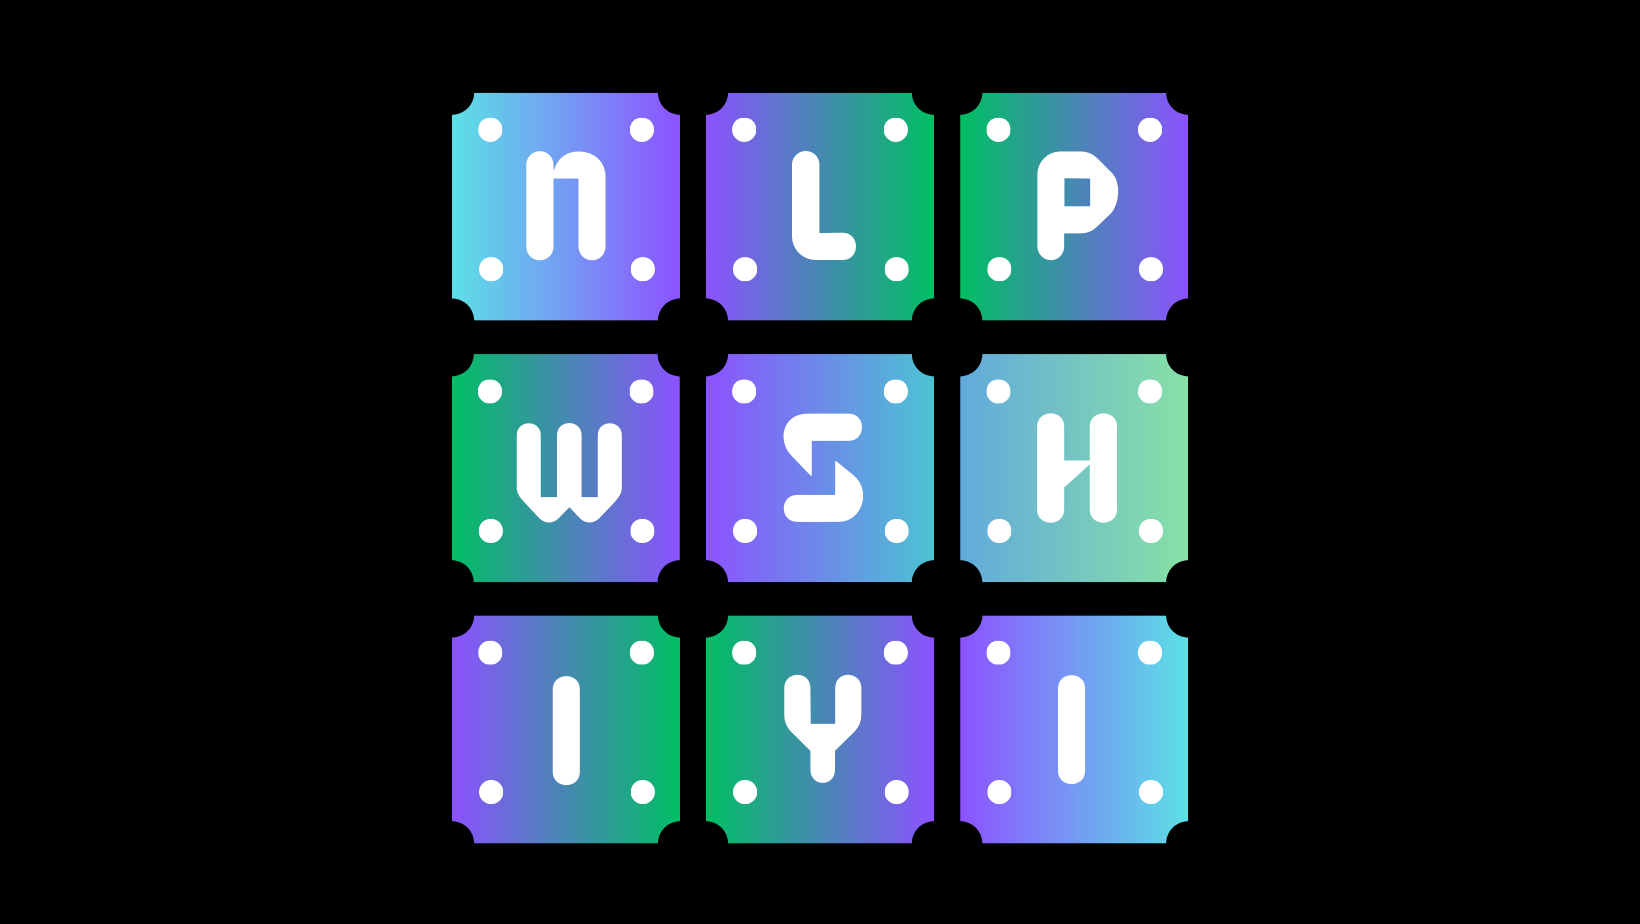
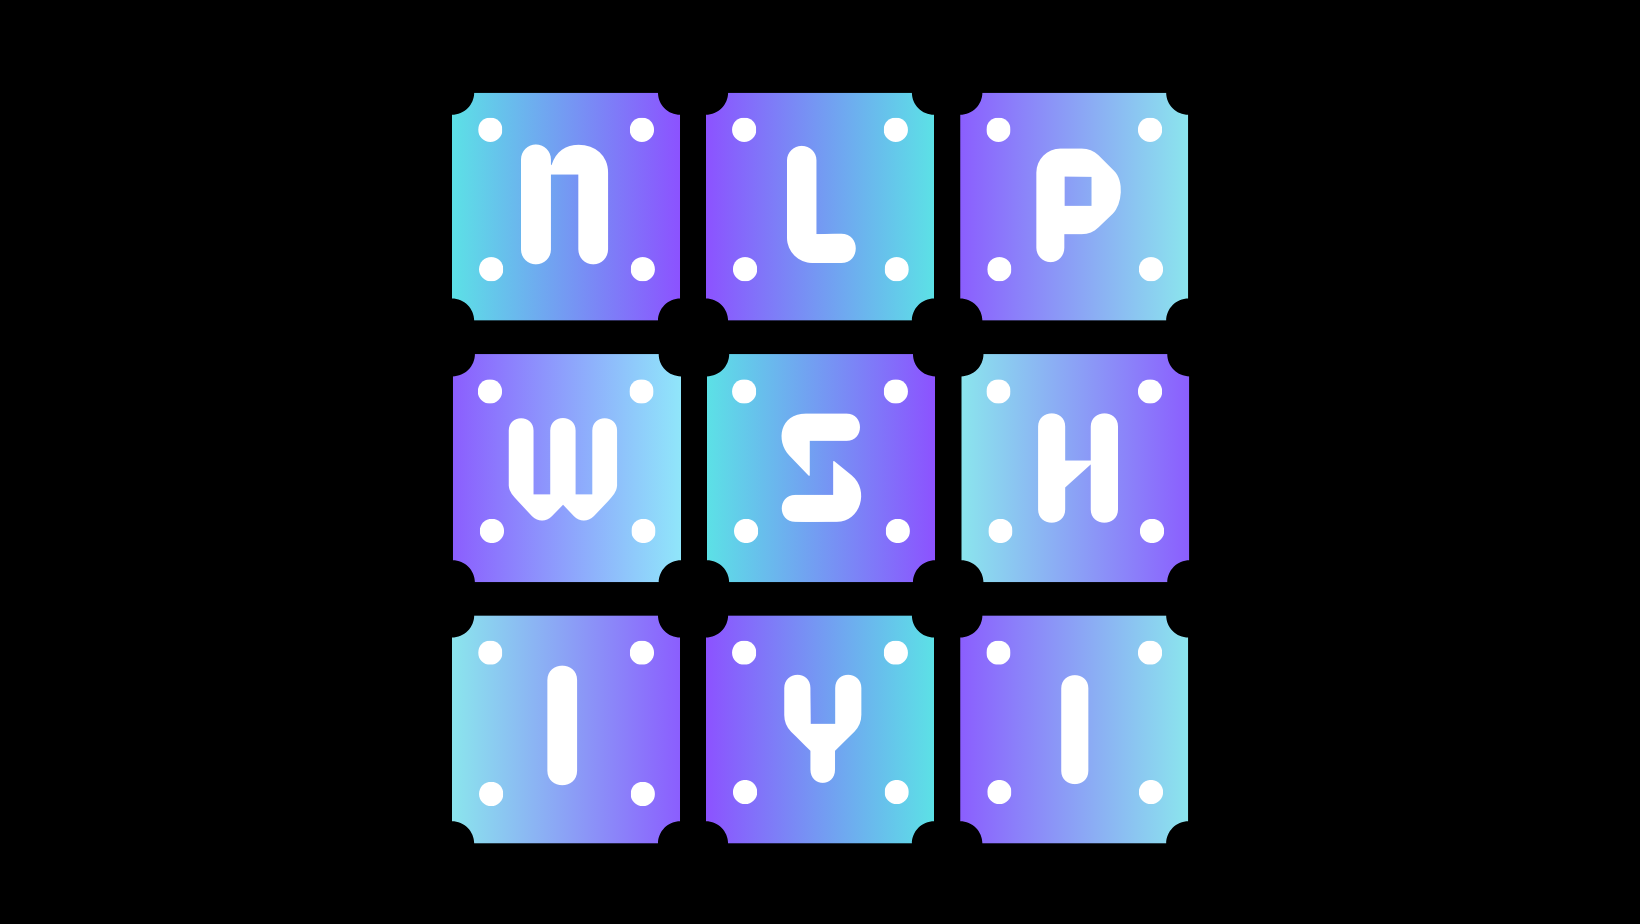
franklin-update

diff --git a/index.md b/index.md
@@ -1,5 +1,5 @@
 
-![intro](./assets/nlpwme.png)
+![intro](./assets/nlpwme2.png)
 
 # Understanding Natural Language Processing with Me!
 
